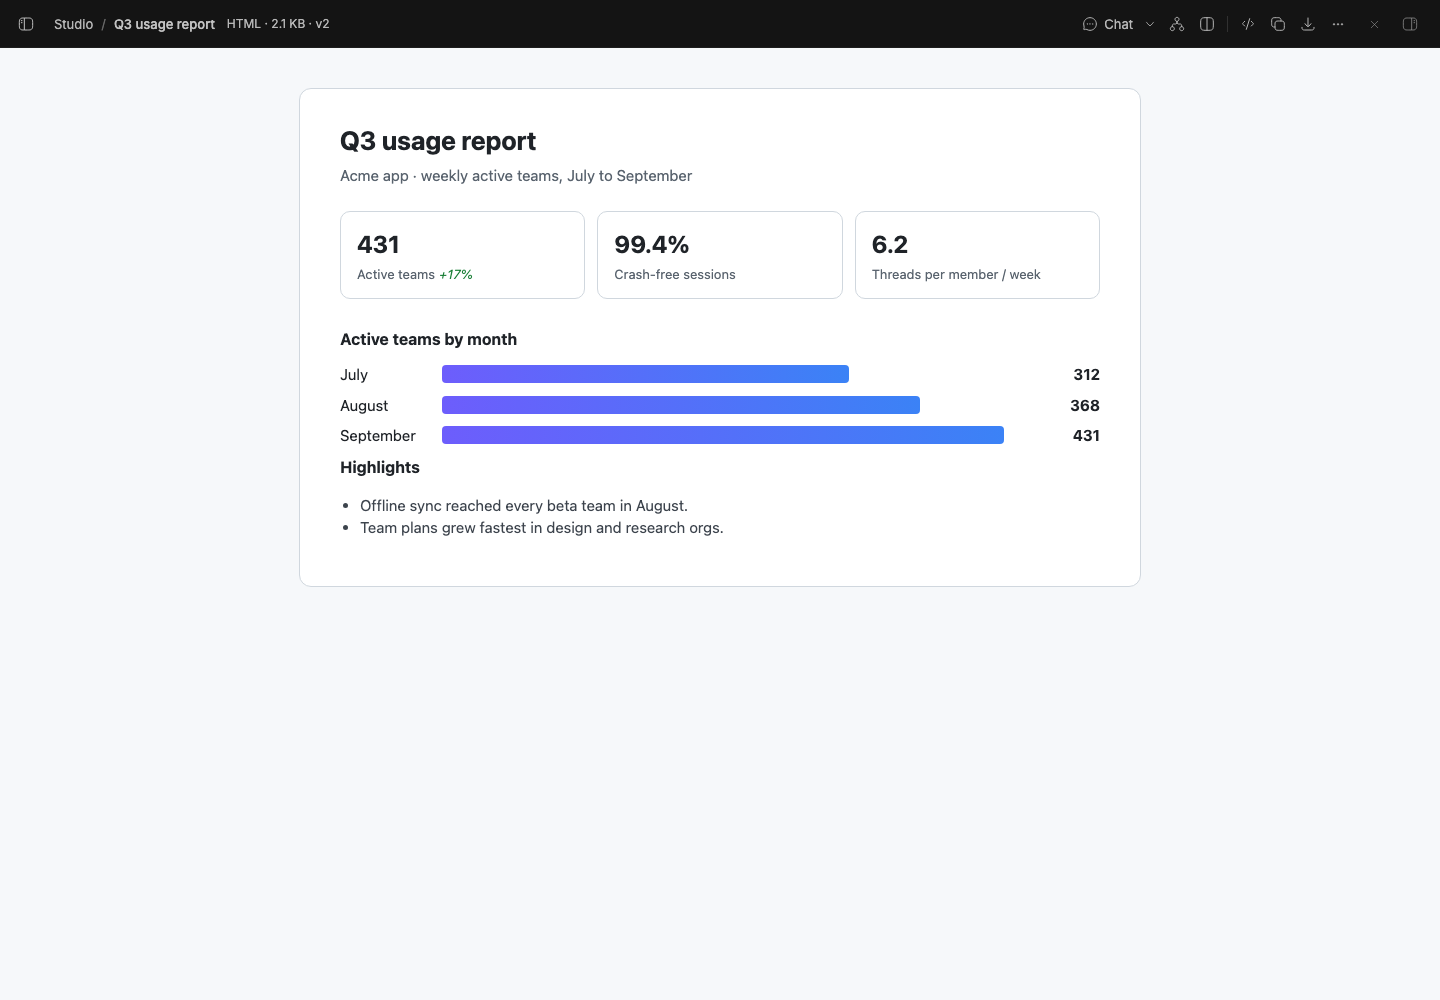
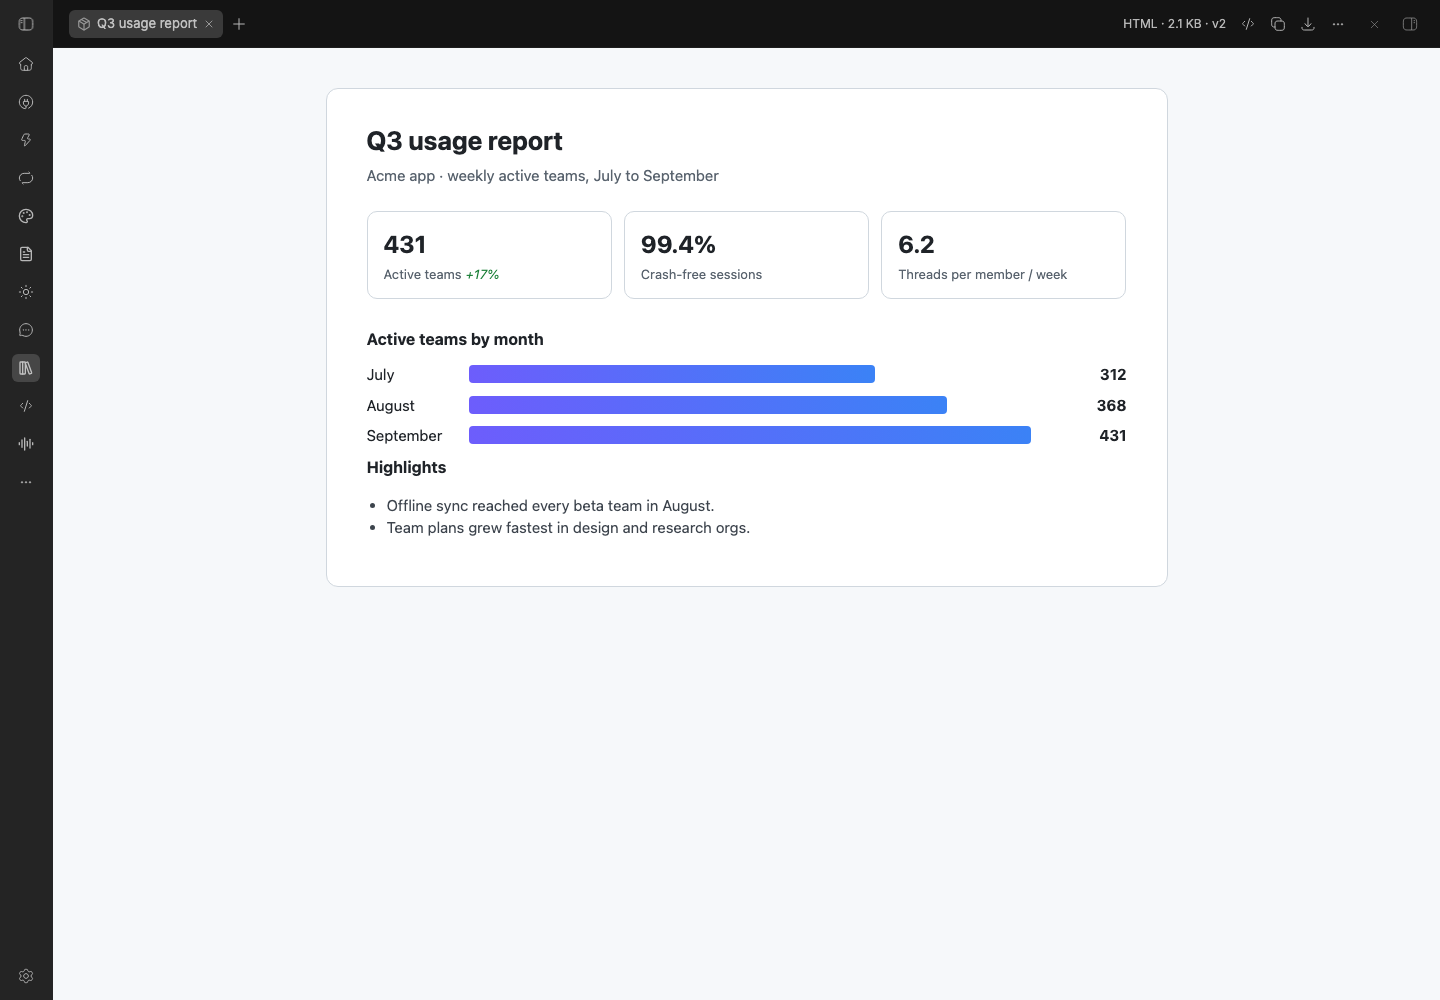
Capture drawings and artifacts as Studio tabs
Both open from their old add-on address and land as Studio workspace tabs;
the captures now check the tab row (title, status, tools) rather than the
standalone item header, which a workspace tab doesn't show.

diff --git a/packages/bb-studio/README.md b/packages/bb-studio/README.md
@@ -91,13 +91,12 @@ copy your artifacts in.
 
 ![Live BB screenshot of an artifact open as a Studio tab](assets/artifacts-preview.png)
 
-Captured from a staged BB before the merge, when this viewer was the
-Artifacts plugin's page; it now opens as a Studio tab. The seeded HTML
-report "Q3 usage report", saved twice from a staged thread's workspace, at
-version 2 (`HTML · 2.1 KB · v2`) in its sandboxed frame, with **Chat**,
-Related, Open in split, the Source toggle, Copy, Download and the ⋯ menu.
-Recapture with `BB_CAPTURE_ONLY=studio-artifacts`, which also checks that the
-old address opens it as a tab.
+Captured from a staged BB after the merge: the seeded HTML report "Q3 usage
+report", saved twice from a staged thread's workspace, open as a Studio tab
+at version 2 (`HTML · 2.1 KB · v2` in the tab row, with Source, Copy,
+Download and the ⋯ menu) in its sandboxed frame. Recapture with
+`BB_CAPTURE_ONLY=studio-artifacts`, which also checks that the old address
+opens it as a tab.
 
 ![The compact artifact header](assets/artifacts-compact-header.png)
 
@@ -150,15 +149,17 @@ tags, tabs, links and chats carry over. If you had the plugin, see
 ![Live BB screenshot of a drawing open as a Studio tab](assets/drawings-preview.png)
 
 The seeded "Checkout flow" drawing open in the Excalidraw editor as a Studio
-tab, under Studio's item header: Cart, Payment and Confirmation boxes joined by
-arrows, with a "Retry payment on failure" note. Recapture with
+tab, with sync status, Copy image and the ⋯ menu in the tab row: Cart,
+Payment and Confirmation boxes joined by arrows, with a "Retry payment on
+failure" note. Recapture with
 `BB_CAPTURE_ONLY=excalidraw`, which opens it from its old
 `/plugins/excalidraw/drawings/<id>` address and checks that it lands as a
 Studio tab.
 
 ![The compact drawing header](assets/drawings-compact-header.png)
 
-The same editor at 390 pixels wide, with **Item actions** open.
+The same editor at 390 pixels wide, with **Item actions** open, captured
+before the merge from Draw's own page.
 
 - **In the library.** Drawings list next to pages, recordings and artifacts:
   thumbnails, projects, search over the words on a drawing, archive, move,
